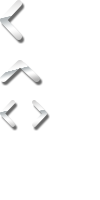
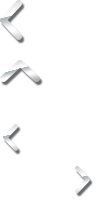
fix

Changed region(s): [[0.0, 0.48, 0.21, 0.78], [0.75, 0.81, 0.93, 0.99], [0.33, 0.48, 0.51, 0.66]]

diff --git a/m/css/base.css b/m/css/base.css
@@ -1675,19 +1675,19 @@ margin-top: -2px;}
   margin: 25px auto;
 }
 #gallery-mask .photo-wrap .slide-left,#gallery-mask .photo-wrap .slide-right{
-  background: url(../images/icons.png) no-repeat;
-  width: 20px;
-  height: 29px;
+  background: url(../images/icons.png?a) no-repeat;
+  width: 60px;
+  height: 60px;
   position: absolute;
   top: 50%;
-  margin-top: -15px;
-  background-position: 0 -100px;
-  left: 30px;
+  margin-top: -30px;
+  background-position: 16px -110px;
+  left: 9px;
 }
 #gallery-mask .photo-wrap .slide-right{
-  background-position: -27px -100px;
+  background-position: -50px -148px;
   left: auto;
-  right: 30px;
+  right: 9px;
 }
 #gallery-mask .photo-gallery , #gallery-mask .video-gallery{
   height: 211px;
@@ -1787,14 +1787,13 @@ background-image: -webkit-gradient(linear, left top, left bottom, color-stop(0%,
 }
 .fancy-slider-wrap .slider-left,
 .fancy-slider-wrap .slider-right{
-  background: rgba(0,0,0,0.4);
-  width: 75px;
-  height: 75px;
+  width: 100px;
+  height: 100px;
   position: absolute;
   top: 50%;
-  margin-top: -37px;
+  margin-top: -50px;
   left: 0;
-  background: url(../images/fancy-bg.png) no-repeat 0 -75px;
+  background: rgba(0,0,0,0.4) url(../images/fancy-bg.png) no-repeat 18px -64px
 }
 .fancy-slider-wrap .slider-right{
   left: auto;

diff --git a/m/main.js b/m/main.js
@@ -29,7 +29,7 @@ define(function(require, exports, module) {
     // tap nav
     // ---------------------------------------------------------
     // slide down
-    $('#J_nav').on( eventName , function(){
+    $('#J_nav').on( "click" , function(){
       $(this).prev().css('top' , -10);
       // TODO ..pause the game
       pause();
